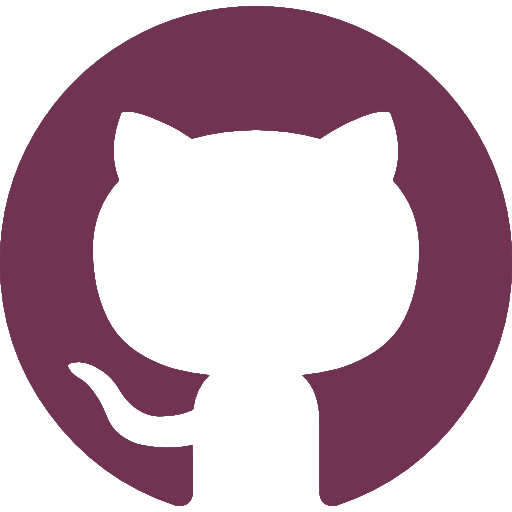
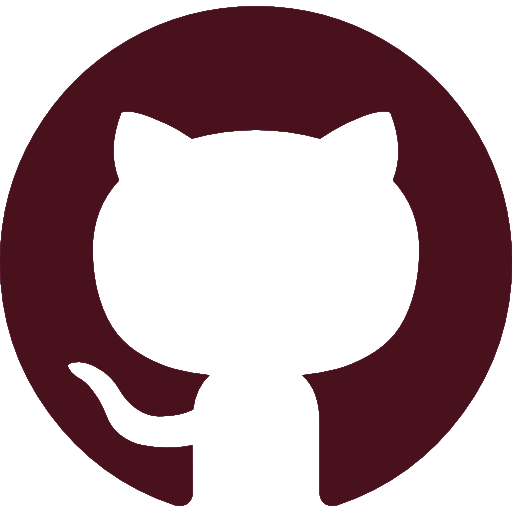
these are the colors

diff --git a/styles.css b/styles.css
@@ -89,7 +89,7 @@ p {
 
 .linkcard-link {
 	font-size: 1.6vw;
-	color: #713354;
+	color: #49111C;
 	text-decoration: none;
 	font-family: "Nunito Sans";
 }
